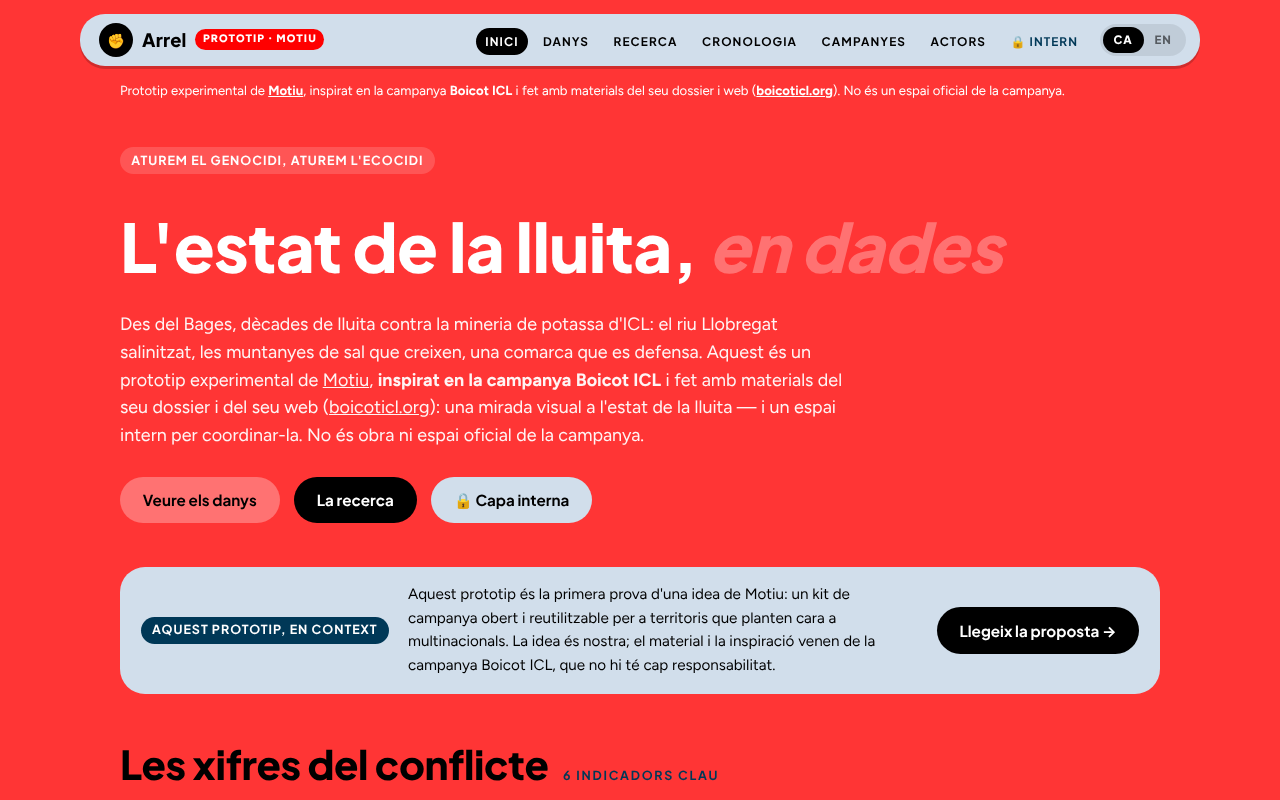
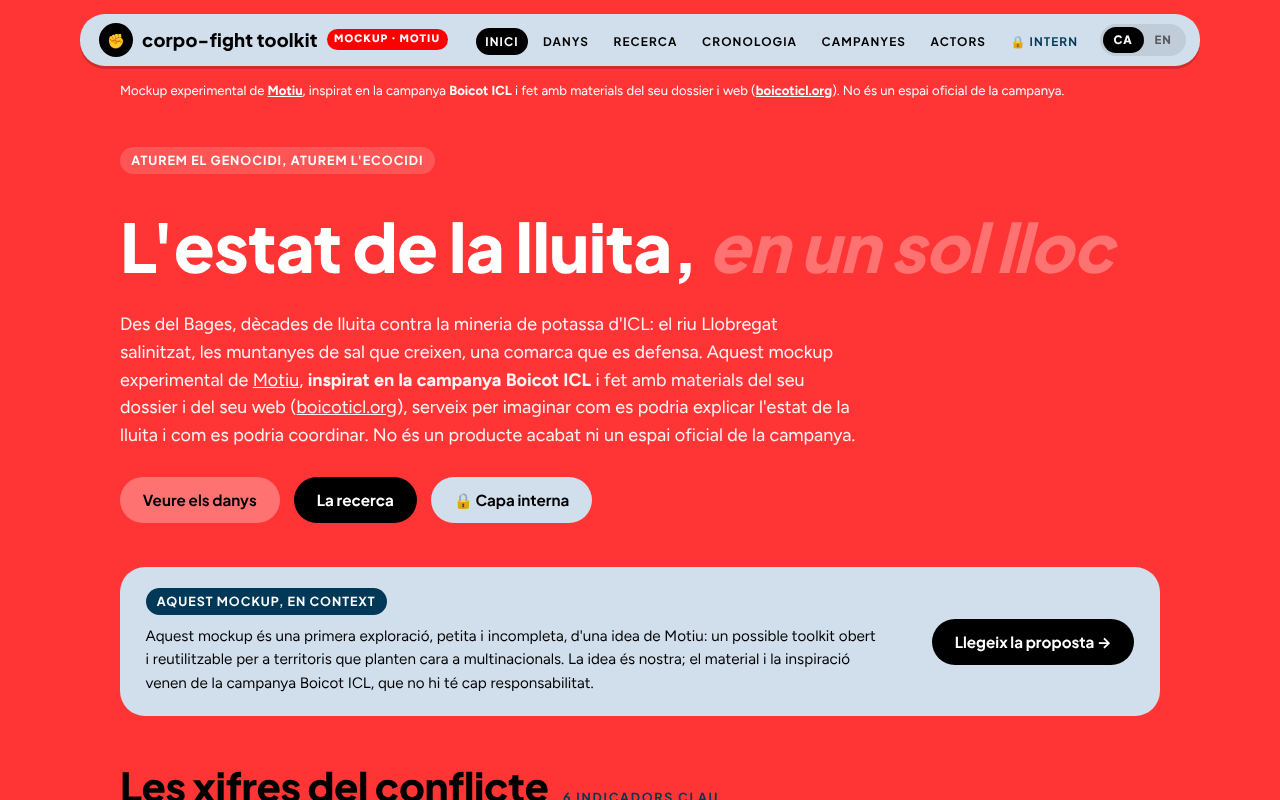
Hero 'in one place', components wording, more screenshots, home layout, drop El Salto
Claude-Session: https://claude.ai/code/session_01JqWxLFuYEJ29nGNmW3EvpP

diff --git a/src/data/actors.ts b/src/data/actors.ts
@@ -82,12 +82,6 @@ export const lluita: Actor[] = [
     source: "D refs",
   },
   {
-    name: "El Salto",
-    type: { ca: "Mitjà", en: "Media outlet" },
-    role: { ca: "Suport al documental «Sal a la ferida»", en: "Support for the documentary 'Salt in the wound'" },
-    source: "W /documental/",
-  },
-  {
     name: "L'Alzina (Col·lectiu Ecologista)",
     type: { ca: "Col·lectiu ecologista", en: "Ecologist collective" },
     role: {

diff --git a/src/styles/global.css b/src/styles/global.css
@@ -132,8 +132,11 @@ small { font-size: 0.82em; }
 .stat__value {
   font-family: var(--font-display);
   font-weight: 800;
-  font-size: clamp(1.9rem, 4vw, 2.7rem);
-  line-height: 1;
+  font-size: clamp(1.7rem, 2.9vw, 2.3rem);
+  line-height: 1.05;
+  min-height: 2.4rem;
+  display: flex;
+  align-items: flex-end;
   letter-spacing: -0.02em;
 }
 .stat__label { font-size: 0.95rem; font-weight: 600; }

diff --git a/boicot-icl-knowledge/proposta-sistema.md b/boicot-icl-knowledge/proposta-sistema.md
@@ -42,6 +42,15 @@ Full de ruta: Catalunya / Vall del Bages = primera instància i prova → punt d
 - «Segona lluita per definir» substituït per «ICL com a primer cas de prova; reutilitzable en altres lluites».
 - Subtítol de l'Inici: «L'estat de la lluita, visualitzat» (vegeu opcions a la conversa).
 
+### Decisions 2026-10-29 (segona tanda)
+
+- Subtítol d'Inici: «L'estat de la lluita, en un sol lloc» / «The state of the fight, in one place».
+- «Capes» passa a **«components»** (el suport i la formació poden anar abans de la implementació; no és una seqüència). Al diagrama, «Suport» és una caixa discontínua amb fletxa bidireccional («en qualsevol moment»).
+- Secció de prova: «Un esbós per recollir un primer feedback»; s'han afegit 2 captures (actors, recerca) → 6 en total. «No demo» eliminat de la pàgina `sistema`.
+- Bilingüe: ja no és un argument; es diu que traduir el web a altres idiomes és ara ràpid i fàcil.
+- Eliminat «El Salto» de la llista d'actors (continua esmentat al crèdit del documental a Recerca).
+- Maquetació d'Inici: etiquetes de les targetes, xifres clau alineades, banda de context i línia del temps (alternada a dalt/baix per evitar solapaments).
+
 ## 3. Opcions de nom
 
 Pendents: **comprovacions de domini i marca** (no fetes) i que la comunitat hi doni el seu parer.
